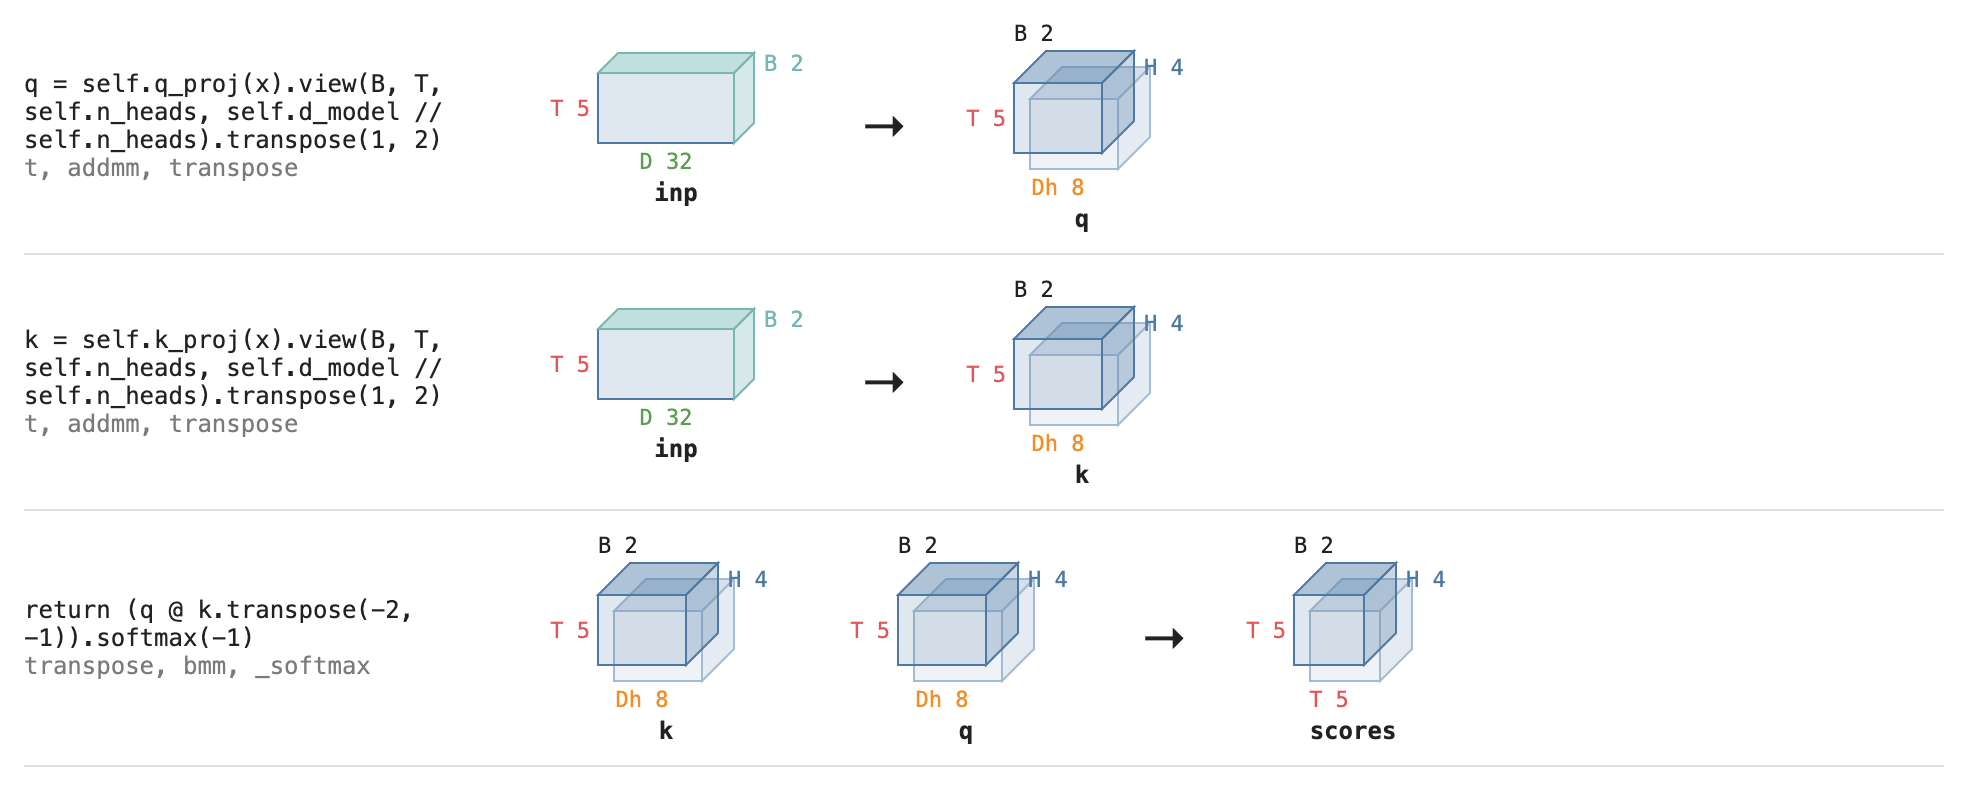
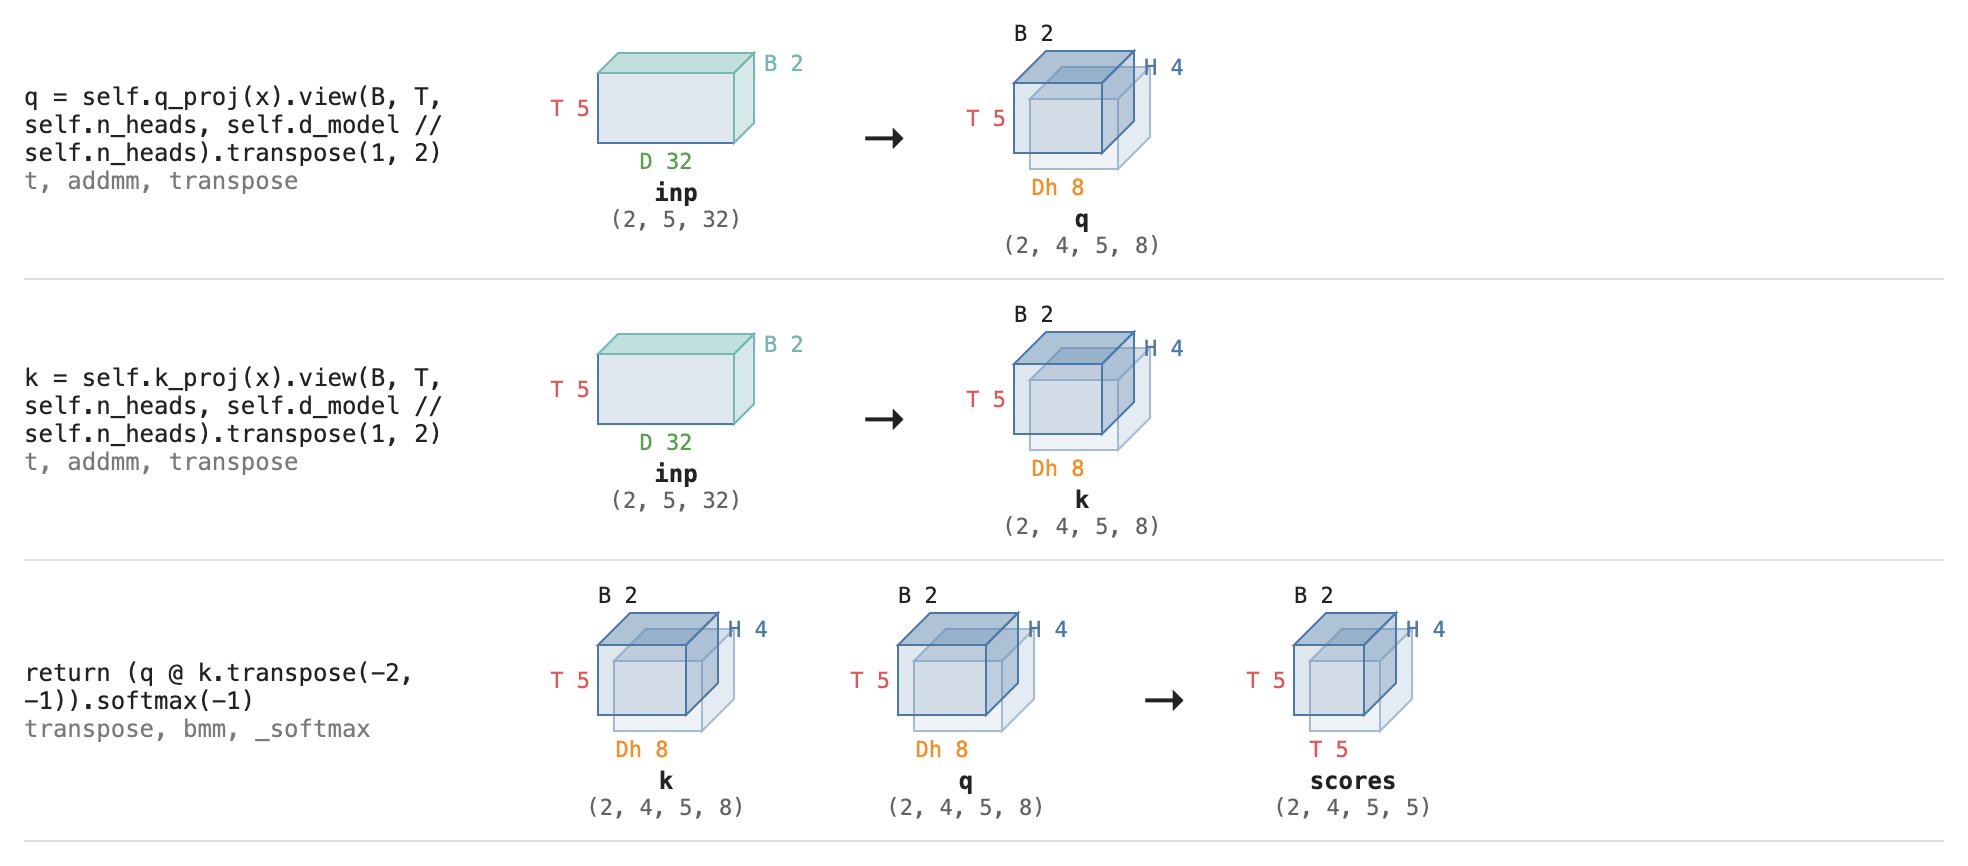
add dimension text under boxes

diff --git a/test_shapelens.py b/test_shapelens.py
@@ -17,7 +17,7 @@ def test_trace_names_shapes_and_labels():
     assert rows[1][3][0][1] == (2, 4, 5, 5)  # s
     assert [t.names[i] for i, _ in rows[1][3]] == ["s"]
     assert t._lab(32) == "D 32" and t._lab(197) == "S 197"  # auto UPPERCASE ints + explicit label
-    assert "<svg" in t._repr_html_() and "s[" in t.text()
+    assert "<svg" in t._repr_html_() and "s(2, 4, 5, 5)" in t.text()
 
 
 def test_failing_op_is_recorded_and_error_propagates():
@@ -51,7 +51,8 @@ def test_expression_in_code_names_its_size():
     with sl.trace() as t:
         q = x.view(2, 5, H, D // H)
     assert t._lab(8) == "D // H = 8", t._lab(8)
-    assert "q[2, 5, H 4, D // H = 8]" in t.text(), t.text()
+    assert "q(2, 5, 4, 8)" in t.text(), t.text()  # text is plain tuples; labels live on the drawn edges
+    assert ">D // H = 8<" in t._repr_html_()
 
 
 def test_expression_beats_a_stale_variable_of_the_same_size():
@@ -135,6 +136,15 @@ def test_expression_evaluator_is_safe():
         raise AssertionError(f"should have been rejected: {bad}")
 
 
+def test_plain_shape_tuples_in_text_and_under_each_box():
+    with sl.trace() as t:
+        x = torch.ones(2, 3, device="meta")
+        y = x.sum(1)
+    assert "x(2, 3)" in t.text() and "y(2,)" in t.text(), t.text()
+    html = t._repr_html_()
+    assert ">(2, 3)<" in html and ">(2,)<" in html, "a plain tuple caption under each box"
+
+
 def test_no_arrow_without_inputs_and_1d_shows_both_sides():
     with sl.trace() as t:
         x = torch.ones(2, 3, device="meta")  # creation op: no inputs
@@ -158,6 +168,7 @@ if __name__ == "__main__":
     test_expression_in_a_multi_line_statement()
     test_warning_says_found_but_could_not_evaluate()
     test_expression_evaluator_is_safe()
+    test_plain_shape_tuples_in_text_and_under_each_box()
     test_no_arrow_without_inputs_and_1d_shows_both_sides()
     test_trace_names_shapes_and_labels()
     test_failing_op_is_recorded_and_error_propagates()

diff --git a/shapelens.py b/shapelens.py
@@ -216,7 +216,7 @@ class trace(TorchDispatchMode):
         return str(d)
 
     def text(self):
-        fmt = lambda i, s: f'{self.names.get(i, "?")}[{", ".join(self._lab(d) for d in s)}]'
+        fmt = lambda i, s: f'{self.names.get(i, "?")}{tuple(s)}'  # plain shape, like torch: x(2, 5, 32)
         return "\n".join(
             f"{'✗ ' if err else ''}{code}\n    {op}: {', '.join(fmt(i, s) for i, s in ins)} -> "
             + (f"ERROR: {err}" if err else ", ".join(fmt(i, s) for i, s in outs))
@@ -271,7 +271,8 @@ class trace(TorchDispatchMode):
         ht = y0 + Hh + 8 * g + 18
         name = html.escape(self.names.get(tid, ""))
         return (f'<div style="text-align:center;margin:0 6px"><svg width="{int(wd)}" height="{int(ht)}">{body}</svg>'
-                f'<div style="font:bold 12px monospace">{name}</div></div>')
+                f'<div style="font:bold 12px monospace">{name}</div>'
+                f'<div style="font:11px monospace;opacity:.7">{html.escape(str(tuple(shape)))}</div></div>')
 
     def lines(self):
         """Collapse raw aten ops to one row per source line: named inputs -> named outputs."""

diff --git a/README.md b/README.md
@@ -16,7 +16,9 @@ t   # last expression in the cell renders the boxes inline
 
 - **Shape errors:** if an op fails inside the block, the trace is displayed immediately with the
   failing line highlighted in red, then the original error still propagates.
-- `print(t)` gives a plain-text version of the same trace.
+- `print(t)` gives a plain-text version of the same trace, with shapes as plain tuples, for example
+  `mm: x(2, 5, 8), Wq(8, 8) -> q(2, 5, 8)`. The drawings show the same tuple under each tensor name, with the
+  dimension labels on the box edges.
 
 ![A failing matmul highlighted in red: A has last dim 32 but B has first dim 64](https://raw.githubusercontent.com/hiimnhan/shapelens/main/docs/shape-error.png)
 
